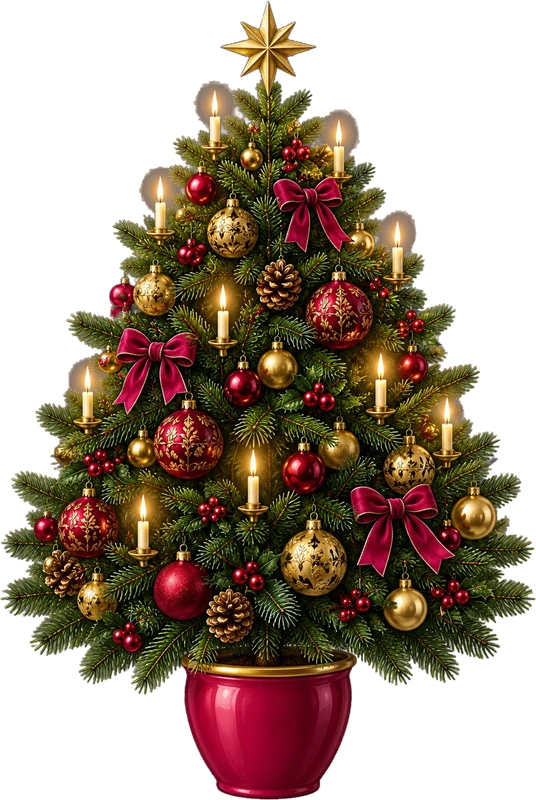
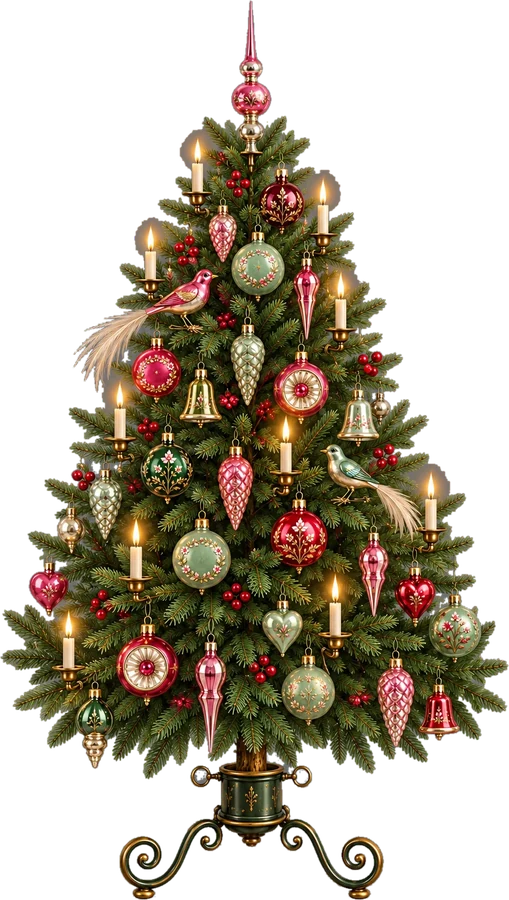
Regal mit angebauter Vitrine ab einem Jahr (alle Designs), neue Weihnachtsbäume, Regal an der Wand; Lady: neuer Hintergrund, Kleid weiter links, Hund größer, Bücher und Auto getauscht, Pokal halb so groß (1.94.0)

diff --git a/index.html b/index.html
@@ -1434,6 +1434,27 @@ html.theme-retreat .lib-row.has-orchid{ --sw:min(calc((100cqw - 16px) / (1 + var
 html.theme-retreat .lib-row.has-orchid .shelf-unit{ scroll-margin-left:calc(var(--sw) / var(--sa, 0.375) * 0.46); } /* the snap must not hide the orchid */
 html.theme-retreat.theme-retreat :is(.modal-title, .scene-head h1, .tb-topbar h2, #t-scene-title, .modal-top h2){ color:var(--rt-burgundy) !important; } /* new colours: headings burgundy */
 html.theme-retreat .shelf-orchid{ position:absolute; left:0; bottom:-13.8%; height:62%; transform:translateX(-98%); /* 1.92.3: beside the bookcase, not in front of it */ z-index:4; /* 21.10.2026: the inlaid table with roses */ /* 1.86.6: the hexagonal inlaid table with the orchid */ z-index:3; pointer-events:none; filter:drop-shadow(0 8px 10px rgba(90,80,60,0.3)); }
+/* 24.10.2026: after a year the cabinet is built onto the bookcase – no gap, exactly as high, one plinth with the plaque */
+html .lib-row .shelf-unit .vitrine-img.vit-joined{ width:calc(var(--sw) / var(--sa, 0.4) * var(--va)) !important; aspect-ratio:auto !important; height:calc(var(--sw) / var(--sa, 0.4)); margin:0 !important; background-size:100% 100% !important; background-repeat:no-repeat !important; flex:none; z-index:0; }
+html .lib-row .shelf-img.sv .club-plaque{ top:var(--plt) !important; height:var(--plh) !important; }
+html .lib-row .shelf-unit .shelf-img.sv{ z-index:1; }
+/* the dog in front of the cabinet, not in front of the plaque (24.10.2026) */
+html .lib-row .shelf-img.sv .shelf-dog-lying{ right:-66% !important; }
+html .lib-row .shelf-img.sv .shelf-dog{ right:-62% !important; }
+html .lib-row .shelf-img.sv .shelf-crib{ right:-92% !important; height:32% !important; } /* A Mystery World at Christmas: the crib with the dog in front of the cabinet */
+/* the Christmas tree of A Mystery World and A Gentleman's Study: left beside the bookcase, like the Lady's */
+.shelf-unit > .shelf-xmas-side{ position:absolute; left:0; bottom:-3%; height:64%; transform:translateX(-96%); z-index:3; pointer-events:none; filter:drop-shadow(0 8px 10px rgba(0,0,0,0.4)); }
+/* 24.10.2026 (wish of the user): in A Mystery World and A Gentleman's Study the bookcase stands back against the wall and further left,
+   like in A Lady's Conservatory: the room moves down until its wall ends at the feet of the furniture */
+html:not(.theme-retreat) .lib-row.has-left{ padding-left:calc(var(--lh) * 0.42) !important; justify-content:flex-start !important; }
+html:not(.theme-retreat) .lib-row.has-left .shelf-unit{ scroll-margin-left:calc(var(--lh) * 0.42); }
+html:not(.theme-biz) .lib-row.has-left{ background-position:calc(var(--lh) * -0.306) calc(100% + var(--lh) * 0.30) !important; }
+html.theme-biz:not(.theme-retreat) .lib-row.has-left{ background-position:calc(var(--lh) * -0.306) calc(100% + var(--lh) * 0.19) !important; }
+/* A Lady's Conservatory: the dress stand further left (wish of the user, 24.10.2026) */
+html.theme-retreat .lib-row .lib-dress-wrap{ margin-left:calc(var(--sw) * -0.16) !important; }
+/* A Lady's Conservatory: the dog 30 % bigger again (wish of the user, 24.10.2026) */
+html.theme-retreat .shelf-dog{ height:44.2%; }
+html.theme-retreat .shelf-dog-lying{ height:16.3%; }
 </style>
 </head>
 <body data-theme="dark">
@@ -1874,7 +1895,7 @@ html.theme-retreat .shelf-orchid{ position:absolute; left:0; bottom:-13.8%; heig
 
 <script>
 /* Bump on every published update, so it's visible at a glance whether the newest version is loaded. */
-const APP_VERSION = '1.93.2';
+const APP_VERSION = '1.94.0';
 /* Design (since 1.80.0, see the small script in <head>): in "Business" (BIZ) the gold paper icons are swapped for plain line
    icons (img/icons-rl/*.svg) wherever they appear – also in everything drawn later – so the rest of the code stays as it is. */
 // A Lady's Conservatory (1.84.0, named so since 1.86.1; key 'retreat' and RETREAT stay): light, cream and forest green; until its own pictures come it uses those of A Gentleman's Study (with the
@@ -6322,6 +6343,20 @@ const NARROW = {
     : { img:'rl2/shelf-narrow', fronts:'rl2/shelf-narrow-fronts', aspect:330 / 1278, x:[15.2, 91.5], k:330 / 504, ov:0 },
   rlPlant:{ img:'rl2/shelf-plant-narrow', fronts:'rl2/shelf-plant-narrow-fronts', aspect:324 / 1279, x:[13.9, 91.4], k:324 / 480, ov:0, plant:{ img:'rl2/plant', w:61.1, over:12.3 } }
 };
+/* 24.10.2026: after a year (level 6) every design gets ONE piece of furniture: book part, trophy part and the glass cabinet
+   built on (pictures of the user, seen straight from the front, one plinth). Cut at the middle posts into three pictures
+   (sv-narrow, sv-shelf, sv-vitrine); plants (ivy, monstera) and the board edges above eye level lie in the *-fronts pictures. */
+const SHELF_SV = {
+  mw:{ narrow:{ img:'mw2/sv-narrow', fronts:'mw2/sv-narrow-fronts', aspect:304 / 1170, x:[27, 96.7], k:304 / 455, ov:0 },
+    shelf:{ img:'mw2/sv-shelf', fronts:'mw2/sv-shelf-fronts', aspect:455 / 1170, roof:5.7, x:[2.4, 97.8], rows:[[13.2, 26.9], [27.4, 42.5], [43, 57.6], [58.1, 72.4], [73.9, 88.9]], plaque:[94.6, 3.7] },
+    vit:{ img:'mw2/sv-vitrine', aspect:428 / 1170, VX:[7.7, 84.8], VR:[[13.2, 27], [27.4, 42.5], [43.1, 57.3], [57.9, 72.9], [73.9, 89.3]] } },
+  rl:{ narrow:{ img:'rl2/sv-narrow', fronts:'rl2/sv-narrow-fronts', aspect:393 / 1164, x:[47.1, 97.5], k:393 / 416, ov:0 },
+    shelf:{ img:'rl2/sv-shelf', fronts:'rl2/sv-shelf-fronts', aspect:416 / 1164, roof:3.6, x:[2.4, 97.1], rows:[[12.4, 26.5], [27, 42.2], [42.6, 57.2], [57.7, 71.8], [73.2, 88]], plaque:[94.8, 3.4] },
+    vit:{ img:'rl2/sv-vitrine', aspect:416 / 1164, VX:[7.5, 83.7], VR:[[12.4, 26.9], [27.1, 42.3], [42.5, 57.5], [57.7, 73.2], [73.5, 88]] } },
+  rt:{ narrow:{ img:'rt2/sv-narrow', fronts:'rt2/sv-narrow-fronts', aspect:292 / 1133, x:[27.4, 95.2], k:292 / 484, ov:0 },
+    shelf:{ img:'rt2/sv-shelf', fronts:'rt2/sv-shelf-fronts', aspect:484 / 1133, roof:0.8, x:[2.9, 97.1], rows:[[8.8, 24], [24.8, 39.4], [39.9, 55.2], [56.2, 70.6], [72.6, 88]], plaque:[94.3, 3.7] },
+    vit:{ img:'rt2/sv-vitrine', aspect:426 / 1133, VX:[7, 83.3], VR:[[8.8, 24.1], [24.5, 39.6], [40.1, 56], [56.5, 72], [72.6, 87.4]] } }
+};
 const shelfKey = ()=>BIZ ? (!RETREAT && appLevel() >= 3 ? 'rlPlant' : 'rl') : appActiveDays() < 3 ? 'dusty' : appLevel() <= 2 ? 'clean' : 'ivy';
 // the library scrolls sideways (1.81.0): a small arrow at the right edge while there is more to see
 function libScrollHint(el){ if(el && el.parentNode) el.parentNode.classList.toggle('more', el.scrollLeft + el.clientWidth < el.scrollWidth - 8); }
@@ -6347,7 +6382,8 @@ function isEasterTime(now){
 const RL_DOG_READY = true; // true as soon as img/rl/dog.webp and img/rl/dog-lying.webp are there
 function tbRenderLibrary(){
   const d = t();
-  let SH = shelfNow(); SHELF_X = SH.x; SHELF_ROWS = SH.rows;
+  const SV = appLevel() >= 6 ? SHELF_SV[BIZ ? (RETREAT ? 'rt' : 'rl') : 'mw'] : null; // after a year: the bookcase with the cabinet built on (24.10.2026)
+  let SH = SV ? SV.shelf : shelfNow(); SHELF_X = SH.x; SHELF_ROWS = SH.rows;
   // with the cabinet (level 6) the diaries of earlier years stand in its top compartment, if there are several (1.78.2)
   const allKeys = tbBookKeys(), thisY = tbCurrentYearStr();
   const oldKeys = []; // since 1.92.3 no diaries in the display cabinet any more (wish of the person): all stay in the book part
@@ -6387,8 +6423,8 @@ function tbRenderLibrary(){
     if(cur.length) rows.push(cur); return rows; };
   let bookRows = packRows(books.map(b=>({ ...b, book:true, g:0.7 })), 0);
   // too many diaries for the top compartment: they all move into the narrow bookcase on the left
-  const NS = NARROW[shelfKey()], NAR = true; // 21.10.2026 (wish of the user): the narrow bookcase for the diaries always stands there, in every design (before: only when the top compartment was full)
-  if(RETREAT && NAR){ SH = SHELVES.rtPlain; SHELF_X = SH.x; } // A Lady's Conservatory: the big one without ivy, one shared middle wall (1.86.3)
+  const NS = SV ? SV.narrow : NARROW[shelfKey()], NAR = true; // 21.10.2026 (wish of the user): the narrow bookcase for the diaries always stands there, in every design (before: only when the top compartment was full)
+  if(RETREAT && NAR && !SV){ SH = SHELVES.rtPlain; SHELF_X = SH.x; } // A Lady's Conservatory: the big one without ivy, one shared middle wall (1.86.3)
   const nCap = i=>{ const r = SHELF_ROWS[Math.min(i, SHELF_ROWS.length - 1)]; return (NS.x[1] - NS.x[0]) / (r[1] - r[0]) * 100 * NS.aspect; };
   let narrowRows = [];
   if(NAR){ narrowRows = packRows(books.map(b=>({ ...b, book:true, g:0.7 })), 0, 0, false, nCap); bookRows = [];
@@ -6426,6 +6462,13 @@ function tbRenderLibrary(){
   while(pl.rest.length && k > 0.87){ k -= 0.04; pl = place(k); }
   if(pl.rest.length) pl = place(k, true);
   while(pl.rest.length && k > 0.7){ k -= 0.04; pl = place(k, true); }
+  // 24.10.2026 (wish of the user): in A Lady's Conservatory the book stack and the car change places
+  (RETREAT ? [[x=>x.group === 'page', x=>x.id === 'classic12']] : []).forEach(([fa, fb])=>{
+    const find = f=>{ for(let i = 0; i < pl.rows.length; i++){ const j = pl.rows[i].findIndex(it=>!it.book && f(it.x)); if(j >= 0) return [i, j]; } return null; };
+    const A = find(fa), B = find(fb); if(!A || !B || A[0] === B[0]) return;
+    const a = pl.rows[A[0]][A[1]], b = pl.rows[B[0]][B[1]], fA = rowHs[B[0]] ? rowHs[A[0]] / rowHs[B[0]] : 1;
+    pl.rows[A[0]][A[1]] = { ...b, h:b.h / fA, w:b.w / fA }; pl.rows[B[0]][B[1]] = { ...a, h:a.h * fA, w:a.w * fA }; // same size in every compartment
+  });
   // whatever still does not fit stands on top of the shelf (as before)
   const packed = pl.rows.concat(pl.rest.length ? [pl.rest.map(o=>({ ...o, h:o.h * k, w:o.w * k, g:1.6 }))] : []);
   const roof = packed.slice(SHELF_ROWS.length).flat().filter(it=>!it.book);
@@ -6451,12 +6494,12 @@ function tbRenderLibrary(){
     + (isNikolausTime() ? animal('nikolaus', 'shelf-nikolaus') + `<img class="shelf-animal shelf-boot" src="img/trophy-boot.webp" alt="">` : '')
     // Advent: the wreath on top of the shelf, one candle more every Sunday; Christmas: the tree beside it and snow
     + (adventCandles() ? animal('advent-' + adventCandles(), 'shelf-wreath') : '')
-    + (isChristmasTime() ? animal('stickers/tree', 'shelf-tree') : '');
+    ; // 24.10.2026: the Christmas tree stands beside the bookcase in every design (see xmasAny below)
   const rh = SHELF_ROWS[0][1] - SHELF_ROWS[0][0];
   const half = Math.ceil(roof.length / 2);
   const roofHtml = roof.length ? `<div class="shelf-comp shelf-roof" style="left:${SHELF_X[0]}%;width:${SHELF_X[1] - SHELF_X[0]}%;top:${SH.roof - rh}%;height:${rh}%">
       <div class="shelf-roof-side">${roof.slice(0, half).map(troHtml).join('')}</div><div class="shelf-roof-side right">${roof.slice(half).map(troHtml).join('')}</div></div>` : '';
-  const shelfHtml = `<div class="shelf-img" style="background-image:url(img/${SH.img}.webp);--roof:${SH.roof}%;aspect-ratio:${(SH.aspect || 1).toFixed(4)}">${clubPlaqueHtml()}${animals}${roofHtml}${SHELF_ROWS.map(([y0, y1], i)=>{
+  const shelfHtml = `<div class="shelf-img${SH.plaque ? ' sv' : ''}" style="background-image:url(img/${SH.img}.webp);--roof:${SH.roof}%;aspect-ratio:${(SH.aspect || 1).toFixed(4)}${SH.plaque ? `;--plt:${SH.plaque[0]}%;--plh:${SH.plaque[1]}%` : ''}">${clubPlaqueHtml()}${animals}${roofHtml}${SHELF_ROWS.map(([y0, y1], i)=>{
       const row = rowsAll[i];
       return `<div class="shelf-comp${row && row.kind === 'tro' ? ' shelf-comp-tro' : row ? ' shelf-comp-books' : ''}" style="left:${SHELF_X[0]}%;width:${SHELF_X[1] - SHELF_X[0]}%;top:${y0}%;height:${y1 - y0}%">${row ? row.r.map(it=>it.book ? bookHtml(it) : troHtml(it)).join('') : ''}</div>`;
     }).join('')}${SH.fronts ? `<div class="shelf-fronts" aria-hidden="true" style="background-image:url(img/${SH.fronts}.webp)"></div>` : ''}</div>`;
@@ -6465,7 +6508,7 @@ function tbRenderLibrary(){
   let vitHtml = '';
   if(VIT){
     // A Lady's Conservatory (1.86.2): a brass-and-glass plant cabinet, four glass shelves above the ferns
-    const VX = [17.2, 83.9], VR0 = [[7.9, 21.6], [22.7, 35.2], [35.9, 49.5], [50.1, 63.2], [63.8, 77.5]];
+    const VX = SV ? SV.vit.VX : [17.2, 83.9], VR0 = SV ? SV.vit.VR : [[7.9, 21.6], [22.7, 35.2], [35.9, 49.5], [50.1, 63.2], [63.8, 77.5]];
     const VR = useOld ? VR0.slice(1) : VR0; // the top compartment then holds the old diaries
     const cap = i=>(VX[1] - VX[0]) / (VR[i][1] - VR[i][0]) * 100 * 0.38 - 10; // all cabinets: about 0.38 times as wide as high (21.10.2026) // the picture is about 0.66 times as wide as high (A Gentleman's Study: 0.348)
     const items = feast.map(x=>{ const h = 92 * (x.scale || 0.8); return { x, h, w:h * (x.aspect || 0.9) + 1 }; });
@@ -6474,14 +6517,14 @@ function tbRenderLibrary(){
       items.forEach(o=>{ const it = { ...o, h:o.h * kk, w:o.w * kk }; if(cur.length && used + it.w + 3 > cap(Math.min(rows.length, VR.length - 1))){ rows.push(cur); cur = []; used = 0; } cur.push(it); used += it.w + 3; });
       if(cur.length) rows.push(cur); if(rows.length <= VR.length || kk < 0.5) break; kk -= 0.05; }
     const oldRow = useOld ? `<div class="shelf-comp shelf-comp-books vit-books" style="left:${VX[0]}%;width:${VX[1] - VX[0]}%;top:${VR0[0][0]}%;height:${VR0[0][1] - VR0[0][0]}%">${oldKeys.map(k=>bookHtml(spine(k))).join('')}</div>` : '';
-    vitHtml = `<div class="vitrine-img">${oldRow}${VR.map(([y0, y1], i)=>`<div class="shelf-comp shelf-comp-tro" style="left:${VX[0]}%;width:${VX[1] - VX[0]}%;top:${y0}%;height:${y1 - y0}%">${(rows[i] || []).map(troHtml).join('')}</div>`).join('')}</div>`;
+    vitHtml = `<div class="vitrine-img${SV ? ' vit-joined' : ''}"${SV ? ` style="background-image:url(img/${SV.vit.img}.webp);--va:${SV.vit.aspect.toFixed(4)}"` : ''}>${oldRow}${VR.map(([y0, y1], i)=>`<div class="shelf-comp shelf-comp-tro" style="left:${VX[0]}%;width:${VX[1] - VX[0]}%;top:${y0}%;height:${y1 - y0}%">${(rows[i] || []).map(troHtml).join('')}</div>`).join('')}</div>`;
   }
   const narrowHtml = NAR ? `<div class="shelf-img shelf-narrow" style="background-image:url(img/${NS.img}.webp);aspect-ratio:${NS.aspect.toFixed(4)}">${SHELF_ROWS.map(([y0, y1], i)=>
       `<div class="shelf-comp shelf-comp-books" style="left:${NS.x[0]}%;width:${NS.x[1] - NS.x[0]}%;top:${y0}%;height:${y1 - y0}%">${(narrowRows[i] || []).map(bookHtml).join('')}</div>`).join('')}${NS.fronts ? `<div class="shelf-fronts" aria-hidden="true" style="background-image:url(img/${NS.fronts}.webp)"></div>` : ''}${NS.plant ? `<img class="shelf-plant" src="img/${NS.plant.img}.webp" alt="" style="width:${NS.plant.w}%;left:${NS.plant.over - NS.plant.w}%">` : ''}</div>` : '';
   // 1.87.2: the shelf is as high as in the other designs; where the orchid table does not fit next to it as well (phones),
   // the row starts at the shelf and the table peeks in from the left (scroll left to see it whole)
   setTimeout(()=>document.querySelectorAll('.lib-scroll').forEach(el=>{
-    const row = el.querySelector('.lib-row.has-orchid'), unit = el.querySelector('.shelf-unit');
+    const row = el.querySelector('.lib-row.has-orchid, .lib-row.has-left'), unit = el.querySelector('.shelf-unit');
     if(row && unit){ const box = el.getBoundingClientRect(), dog = unit.querySelector('.shelf-dog, .shelf-dog-lying');
       const right = Math.max(unit.getBoundingClientRect().right, dog ? dog.getBoundingClientRect().right : 0) - box.left + el.scrollLeft;
       if(right > el.clientWidth){ const left = unit.getBoundingClientRect().left - box.left + el.scrollLeft, to = Math.min(left, right + 6 - el.clientWidth);
@@ -6491,10 +6534,14 @@ function tbRenderLibrary(){
   // A Morning Retreat (1.84.2): from level 3 (where A Mystery World gets its ivy) a white orchid on a fine plant stand,
   // to the left of the shelf (and of the narrow one), a little in front of it
   const xmasTree = RETREAT && isChristmasTime(); // 21.10.2026: the Lady's Christmas tree takes the place of the rose table
+  // 24.10.2026: new Christmas trees (wrought-iron stand, old glass ornaments) in all three designs, left beside the bookcase;
+  // A Gentleman's Study now has one too (A Mystery World only with animals & decorations switched on)
+  const xmasOther = !RETREAT && isChristmasTime() && (BIZ || decorOn());
+  const xmasOtherHtml = xmasOther ? `<img class="shelf-xmas shelf-xmas-side" src="img/${BIZ ? 'rl2' : 'mw2'}/tree.webp" alt="">` : '';
   const orchid = RETREAT && (lv >= 3 || xmasTree);
   // one row that scrolls sideways (1.81.0, both designs): the shelf (with the narrow one), then the cabinet and later more
-  return `<div class="lib-wrap"><div class="lib-scroll" onscroll="libScrollHint(this)"><div class="lib-row${orchid ? ' has-orchid' : ''}" style="--nk:${NAR ? NS.k : 0};--nov:${NAR ? NS.ov : 0};--sa:${(SH.aspect || 0.5).toFixed(4)}">
-      <div class="shelf-unit${NAR ? ' has-narrow' : ''}">${isChristmasTime() && decorOn() ? '<div class="shelf-snow" aria-hidden="true"></div>' : ''}${orchid ? (xmasTree ? '<img class="shelf-orchid shelf-xmas" src="img/rt2/tree.webp" alt="">' : '<img class="shelf-orchid" src="img/rt2/rose-table.webp" alt="">') : ''}${narrowHtml}${shelfHtml}</div>${DRESS ? `<div class="lib-dress-wrap${dressKind ? ' dress-' + dressKind : ''}"><img class="lib-dress" src="img/${RETREAT ? (dressKind === 'wide' ? 'rt2/dress-shoes' : 'rt2/dress-' + dressKind) : 'rl/dress-form'}.webp" alt="">${dressWatch ? `<button class="dress-watch" onclick="trophyShow('${dressWatch.id}')" title="${escapeHtml(dressWatch.title)}"><img src="img/${dressWatch.img}.webp" alt=""></button>` : ''}${worn ? `<button class="dress-brooch" onclick="trophyShow('${worn.id}')" title="${escapeHtml(worn.title)}" aria-label="${escapeHtml(worn.title)}"><img src="img/${trophyRl(worn).img}.webp" alt=""></button>` : ''}${RETREAT ? '' : `<div class="dress-medals">${medals.map(m=>`<button class="dress-medal" onclick="trophyShow('${m.id}')" title="${escapeHtml(m.title)}" aria-label="${escapeHtml(m.title)}"><img src="img/${m.img}.webp" alt=""></button>`).join('')}</div>`}</div>` : ''}${vitHtml}</div></div></div>
+  return `<div class="lib-wrap"><div class="lib-scroll" onscroll="libScrollHint(this)"><div class="lib-row${orchid ? ' has-orchid' : RETREAT ? '' : ' has-left'}" style="--nk:${NAR ? NS.k : 0};--nov:${NAR ? NS.ov : 0};--sa:${(SH.aspect || 0.5).toFixed(4)}">
+      <div class="shelf-unit${NAR ? ' has-narrow' : ''}">${isChristmasTime() && decorOn() ? '<div class="shelf-snow" aria-hidden="true"></div>' : ''}${xmasOtherHtml}${orchid ? (xmasTree ? '<img class="shelf-orchid shelf-xmas" src="img/rt2/tree.webp" alt="">' : '<img class="shelf-orchid" src="img/rt2/rose-table.webp" alt="">') : ''}${narrowHtml}${shelfHtml}${SV ? vitHtml : ''}</div>${DRESS ? `<div class="lib-dress-wrap${dressKind ? ' dress-' + dressKind : ''}"><img class="lib-dress" src="img/${RETREAT ? (dressKind === 'wide' ? 'rt2/dress-shoes' : 'rt2/dress-' + dressKind) : 'rl/dress-form'}.webp" alt="">${dressWatch ? `<button class="dress-watch" onclick="trophyShow('${dressWatch.id}')" title="${escapeHtml(dressWatch.title)}"><img src="img/${dressWatch.img}.webp" alt=""></button>` : ''}${worn ? `<button class="dress-brooch" onclick="trophyShow('${worn.id}')" title="${escapeHtml(worn.title)}" aria-label="${escapeHtml(worn.title)}"><img src="img/${trophyRl(worn).img}.webp" alt=""></button>` : ''}${RETREAT ? '' : `<div class="dress-medals">${medals.map(m=>`<button class="dress-medal" onclick="trophyShow('${m.id}')" title="${escapeHtml(m.title)}" aria-label="${escapeHtml(m.title)}"><img src="img/${m.img}.webp" alt=""></button>`).join('')}</div>`}</div>` : ''}${SV ? '' : vitHtml}</div></div></div>
     <p class="shelf-hint">${keys.length ? d.shelfHint : ''}${next ? `<br>${d.trophyNextLabel} <strong>${escapeHtml(next.title)}</strong> (${next.have}/${next.need})` : ''}</p>
     <p class="shelf-hint shelf-level">${levelProgressText()}</p>
     ${tbCoverSettingsHtml()}`;
@@ -6716,7 +6763,7 @@ function trophyRl(x){
     const rs = RT_TRO[x.group] || RT_TRO[x.id];
     if(rs){ const r = Array.isArray(rs[0]) ? rs[Math.min(x.stage || 0, rs.length - 1)] : rs;
       const CLr = ['box', 'b478', 'lemon', 'stones', 'bowl', 'grat'];
-      const scale = x.group === 'streak' ? 0.5 + x.stage * 0.1 : x.group === 'ex' ? 0.26 + x.stage * 0.03 : x.group === 'loyal' ? 0.62 + x.stage * 0.08 /* the mantel clock grows a little with each stage */ : CLr.includes(x.group) ? 0.62 + x.stage * 0.12 : x.scale;
+      const scale = x.group === 'streak' ? 0.5 + x.stage * 0.1 : x.group === 'ex' ? 0.26 + x.stage * 0.03 : x.group === 'loyal' ? 0.62 + x.stage * 0.08 /* the mantel clock grows a little with each stage */ : x.group === 'goal' ? x.scale * 0.5 /* 24.10.2026: the red cup half as big */ : CLr.includes(x.group) ? 0.62 + x.stage * 0.12 : x.scale;
       return { ...x, img:(r[0].includes('/') ? '' : 'rt/') + r[0], aspect:r[1], scale }; }
   }
   let m = null;

diff --git a/CLAUDE.md b/CLAUDE.md
@@ -127,7 +127,7 @@ Der Nutzer ist kein Entwickler. Erkläre Schritte einfach und auf Deutsch.
 - Veröffentlicht über **GitHub Pages** aus diesem Repository (Branch `main`, Ordner `/`):
   https://k9vk58y99f-max.github.io/k9vk58y99f-max.github.io-ewolfe-app-/
 - Ein Commit + Push auf `main` ist die Veröffentlichung; nach 1–2 Minuten ist es live.
-- Bei jeder Änderung `APP_VERSION` erhöhen (aktuell `1.93.2`) und `APP_BUILD` anpassen.
+- Bei jeder Änderung `APP_VERSION` erhöhen (aktuell `1.94.0`) und `APP_BUILD` anpassen.
   Die Version steht unten in der App.
 
 ## Neu seit 1.55.0 (iPad, Wischen, Tagebuch, Sticker, Impulskarten)
@@ -537,6 +537,15 @@ Vor jedem Push: Syntax prüfen und die betroffenen Abläufe testen. Daten des Nu
 - 1.93.1: Die Treue-Uhr (60/150/250 aktive Tage) hängt nicht mehr am Lady-Kleid, sie steht im Regal; eine kleine Kaminuhr ist bestellt
   (Prompt in „3 Morning Retreat Style/Alle offenen Prompts – A Lady's Conservatory.md“), dann `RT_TRO.loyal` umstellen.
 - 1.93.2: Treue in A Lady's Conservatory = himbeerrote Kaminuhr mit Rosen und Gold (`rt2/clock`, `RT_TRO.loyal`), wächst je Stufe etwas (0,62/0,70/0,78). Original: „3 Morning Retreat Style/Originale ChatGPT/Kaminuhr (24.10.2026)“.
+- **1.94.0 Regal mit angebauter Vitrine (ab Stufe 6, alle Designs):** ein Möbel (Bilder des Nutzers „… – Regal mit Vitrine (neu)“), an den
+  Mittelwänden in drei Bilder geschnitten: `mw2|rl2|rt2/sv-narrow`, `sv-shelf`, `sv-vitrine` (+ `sv-narrow-fronts`/`sv-shelf-fronts`: Bodenkanten über
+  Augenhöhe und die Pflanzen Efeu/Monstera, die vor dem Bücherteil hängen). Daten in `SHELF_SV` (Fächer, `VX`/`VR` der Vitrine, Plakette `plaque`
+  [top, Höhe] → CSS `--plt`/`--plh`). Die Vitrine steckt dann in `.shelf-unit` (`.vit-joined`, ohne Lücke, gleiche Höhe). Hund und Mystery-Krippe stehen
+  vor der Vitrine, nicht vor der Plakette. Skripte (Freistellen vom Grau, Schneiden, Messen): Sammelordner „Bibliothek nach 1, 2, 3 Jahren (24.10.2026)“.
+  Neue Weihnachtsbäume (`mw2/tree`, `rl2/tree`, `rt2/tree`; schmiedeeiserner Ständer, alter Glasschmuck) links neben dem Regal (`.shelf-xmas-side`),
+  jetzt auch in A Gentleman's Study. Adventskränze bleiben die alten. Mystery und Gentleman: Regal hinten an der Wand und weiter links (`.lib-row.has-left`,
+  Raum nach unten verschoben). Lady: neuer Hintergrund „Gewächshaus mit Laterne“ (`rt2/conservatory`), Kleid weiter links, Hund 30 % größer,
+  Bücherstapel und Auto getauscht (Tausch nach dem Einräumen in `tbRenderLibrary`), Ziele-Pokal halb so groß.
 - Prompts Weihnachtsbaum (schmiedeeiserner Ständer, alter Glasschmuck) und Adventskranz für alle drei Designs:
   Sammelordner „Weihnachtsbaum und Adventskranz – Prompts (24.10.2026).md“.
 - **Geplant (Datenschutz, noch nicht gebaut):** Ende-zu-Ende-Verschlüsselung (AES-256 auf dem Gerät, Schlüssel aus dem Passwort mit
